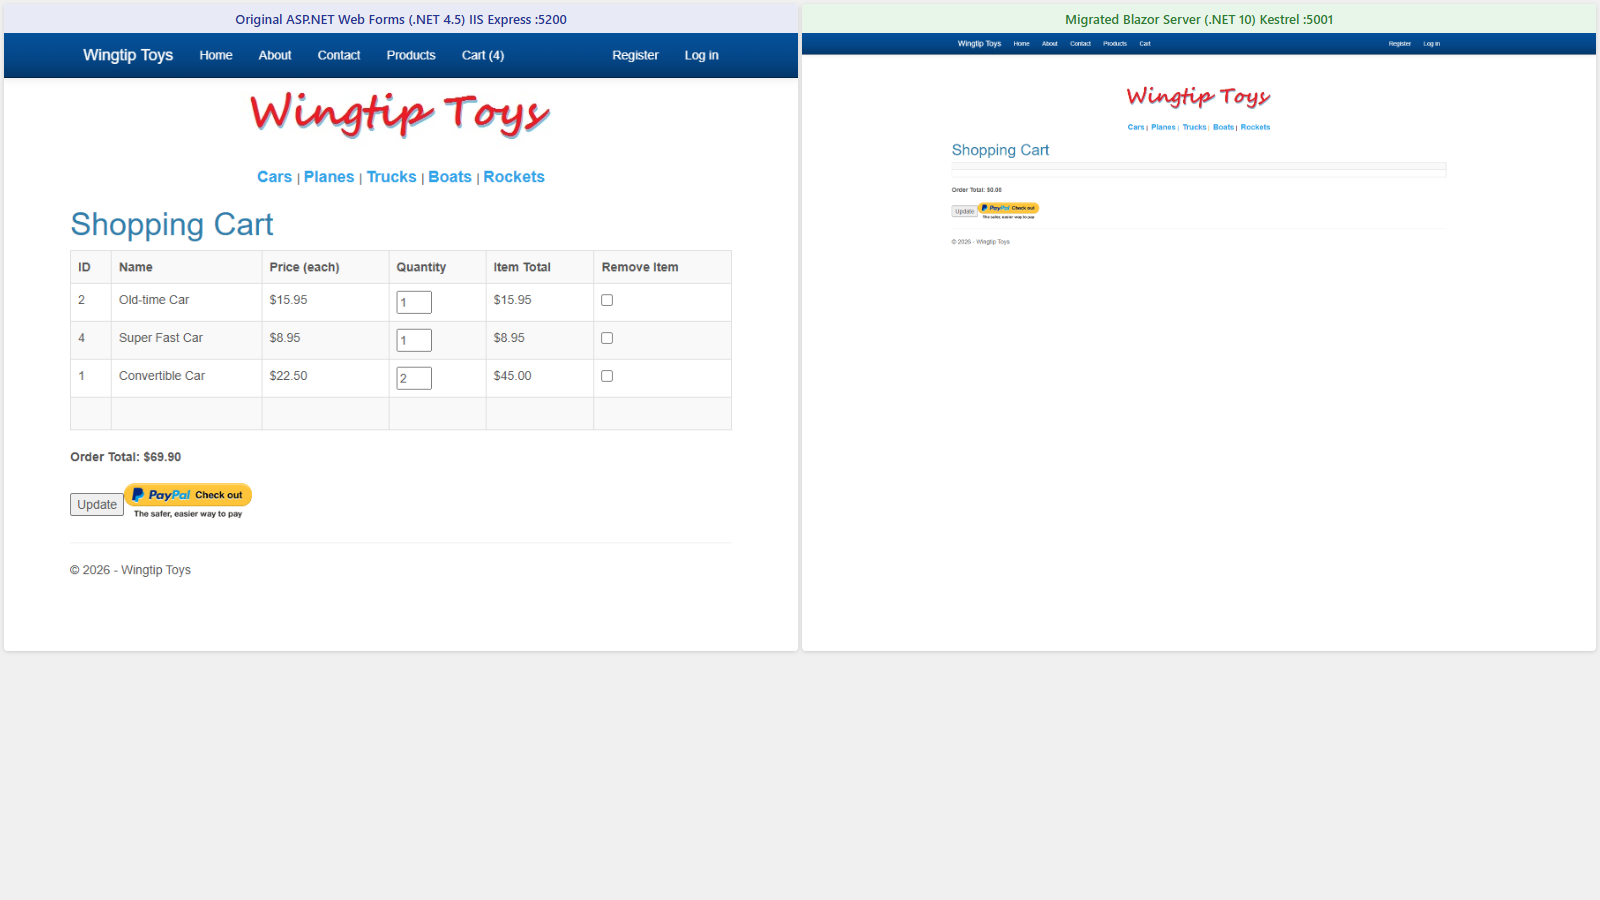
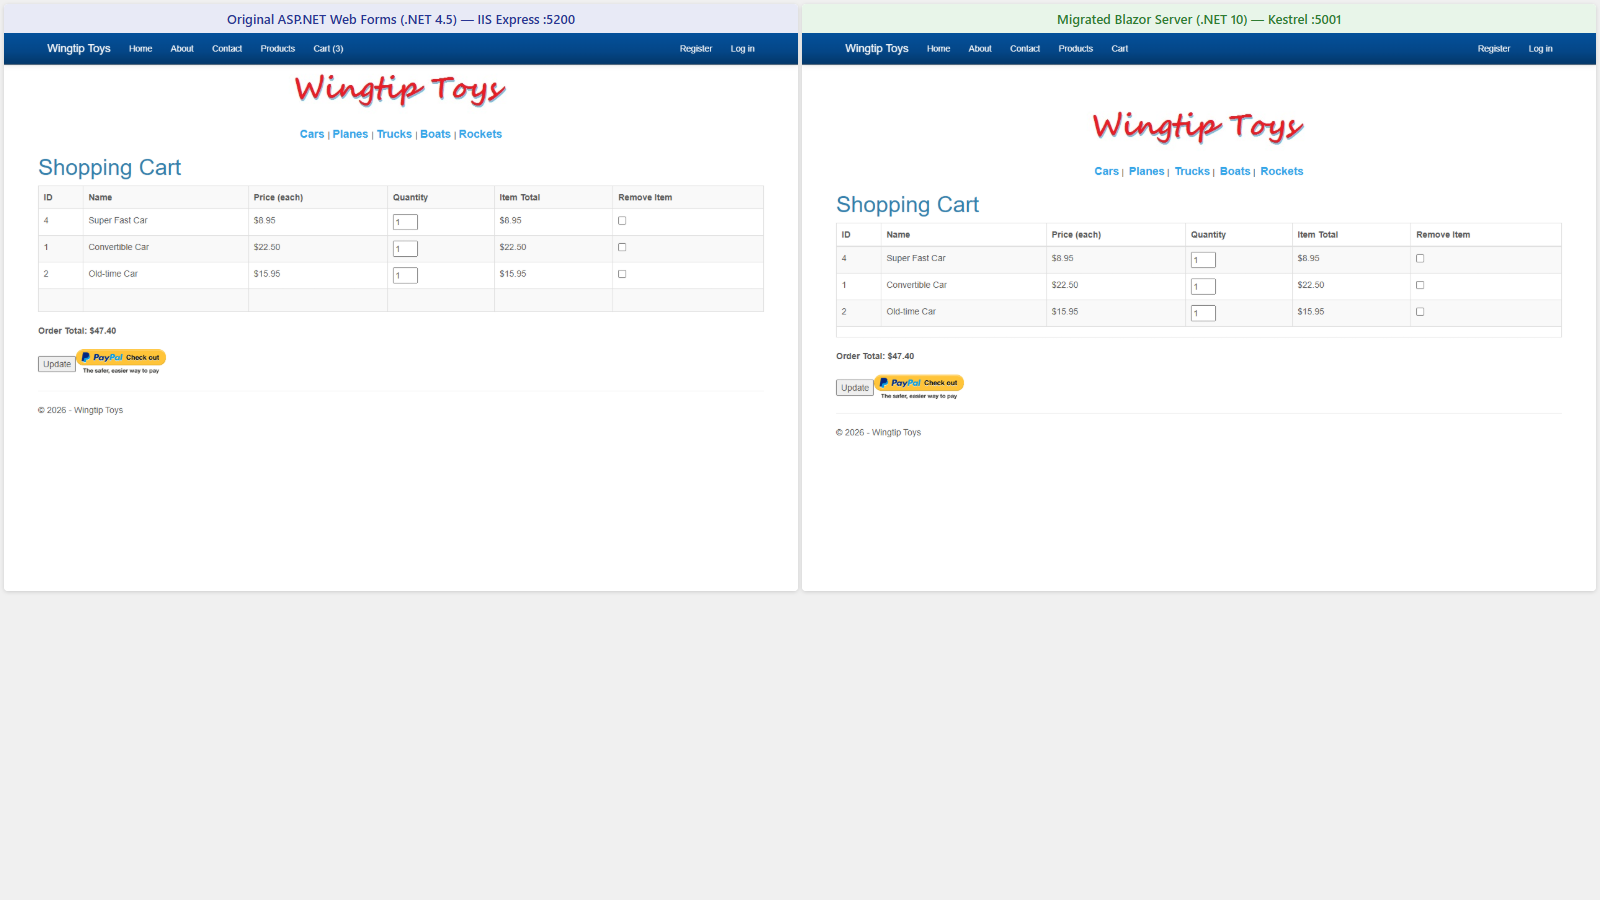
docs: fix side-by-side comparison screenshots with matched zoom and data
All comparisons now use identical 1280x900 viewport screenshots.
Cart comparison shows same 3 items on both sides (.40 total).
Updated executive report cart description.

diff --git a/planning-docs/screenshots/comparison-products-v2.html b/planning-docs/screenshots/comparison-products-v2.html
@@ -16,12 +16,12 @@
 <body>
 <div class="comparison">
   <div class="panel">
-    <div class="panel-label original">Original ASP.NET Web Forms (.NET 4.5)  IIS Express :5200</div>
-    <img src="original-products-real.png" alt="Original Products Page" />
+    <div class="panel-label original">Original ASP.NET Web Forms (.NET 4.5) &#x2014; IIS Express :5200</div>
+    <img src="original-products-matched.png" alt="Original Products Page" />
   </div>
   <div class="panel">
-    <div class="panel-label migrated">Migrated Blazor Server (.NET 10)  Kestrel :5001</div>
-    <img src="migrated-products-v2.png" alt="Migrated Products Page" />
+    <div class="panel-label migrated">Migrated Blazor Server (.NET 10) &#x2014; Kestrel :5001</div>
+    <img src="migrated-products-matched.png" alt="Migrated Products Page" />
   </div>
 </div>
 </body>

diff --git a/planning-docs/screenshots/comparison-cart-v2.html b/planning-docs/screenshots/comparison-cart-v2.html
@@ -16,12 +16,12 @@
 <body>
 <div class="comparison">
   <div class="panel">
-    <div class="panel-label original">Original ASP.NET Web Forms (.NET 4.5)  IIS Express :5200</div>
-    <img src="original-cart-real.png" alt="Original Cart Page" />
+    <div class="panel-label original">Original ASP.NET Web Forms (.NET 4.5) &#x2014; IIS Express :5200</div>
+    <img src="original-cart-matched.png" alt="Original Cart Page" />
   </div>
   <div class="panel">
-    <div class="panel-label migrated">Migrated Blazor Server (.NET 10)  Kestrel :5001</div>
-    <img src="migrated-cart-empty-v2.png" alt="Migrated Cart Page" />
+    <div class="panel-label migrated">Migrated Blazor Server (.NET 10) &#x2014; Kestrel :5001</div>
+    <img src="migrated-cart-matched.png" alt="Migrated Cart Page" />
   </div>
 </div>
 </body>

diff --git a/planning-docs/screenshots/comparison-home-v2.html b/planning-docs/screenshots/comparison-home-v2.html
@@ -16,12 +16,12 @@
 <body>
 <div class="comparison">
   <div class="panel">
-    <div class="panel-label original">Original ASP.NET Web Forms (.NET 4.5)  IIS Express :5200</div>
-    <img src="original-home-real.png" alt="Original Home Page" />
+    <div class="panel-label original">Original ASP.NET Web Forms (.NET 4.5) &#x2014; IIS Express :5200</div>
+    <img src="original-home-matched.png" alt="Original Home Page" />
   </div>
   <div class="panel">
-    <div class="panel-label migrated">Migrated Blazor Server (.NET 10)  Kestrel :5001</div>
-    <img src="migrated-home-v2.png" alt="Migrated Home Page" />
+    <div class="panel-label migrated">Migrated Blazor Server (.NET 10) &#x2014; Kestrel :5001</div>
+    <img src="migrated-home-matched.png" alt="Migrated Home Page" />
   </div>
 </div>
 </body>

diff --git a/planning-docs/WINGTIPTOYS-MIGRATION-EXECUTIVE-REPORT.md b/planning-docs/WINGTIPTOYS-MIGRATION-EXECUTIVE-REPORT.md
@@ -53,7 +53,7 @@ The comparisons below show the **original WingtipToys Web Forms application** (l
 
 ![Shopping Cart — Side by Side Comparison](screenshots/comparison-cart-v2.png)
 
-*Shopping cart page comparison. The original (left) shows a populated cart with GridView columns (ID, Name, Price, Quantity, Item Total, Remove). The migrated version (right) uses BWFC's `GridView` with `BoundField` and `TemplateField` (TextBox for quantity, CheckBox for removal). Cart powered by scoped `CartStateService` replacing Web Forms Session state. Update button and PayPal checkout button preserved.*
+*Both carts contain the same 3 items (Super Fast Car $8.95, Convertible Car $22.50, Old-time Car $15.95 — total $47.40). The migrated version (right) uses BWFC's `GridView` with `BoundField` and `TemplateField` columns (TextBox for quantity, CheckBox for removal) — matching the original's GridView output. Cart powered by scoped `CartStateService` + EF Core + SQLite replacing Web Forms Session state. Update button and PayPal checkout button preserved.*
 
 ### Additional Migrated Pages
 
